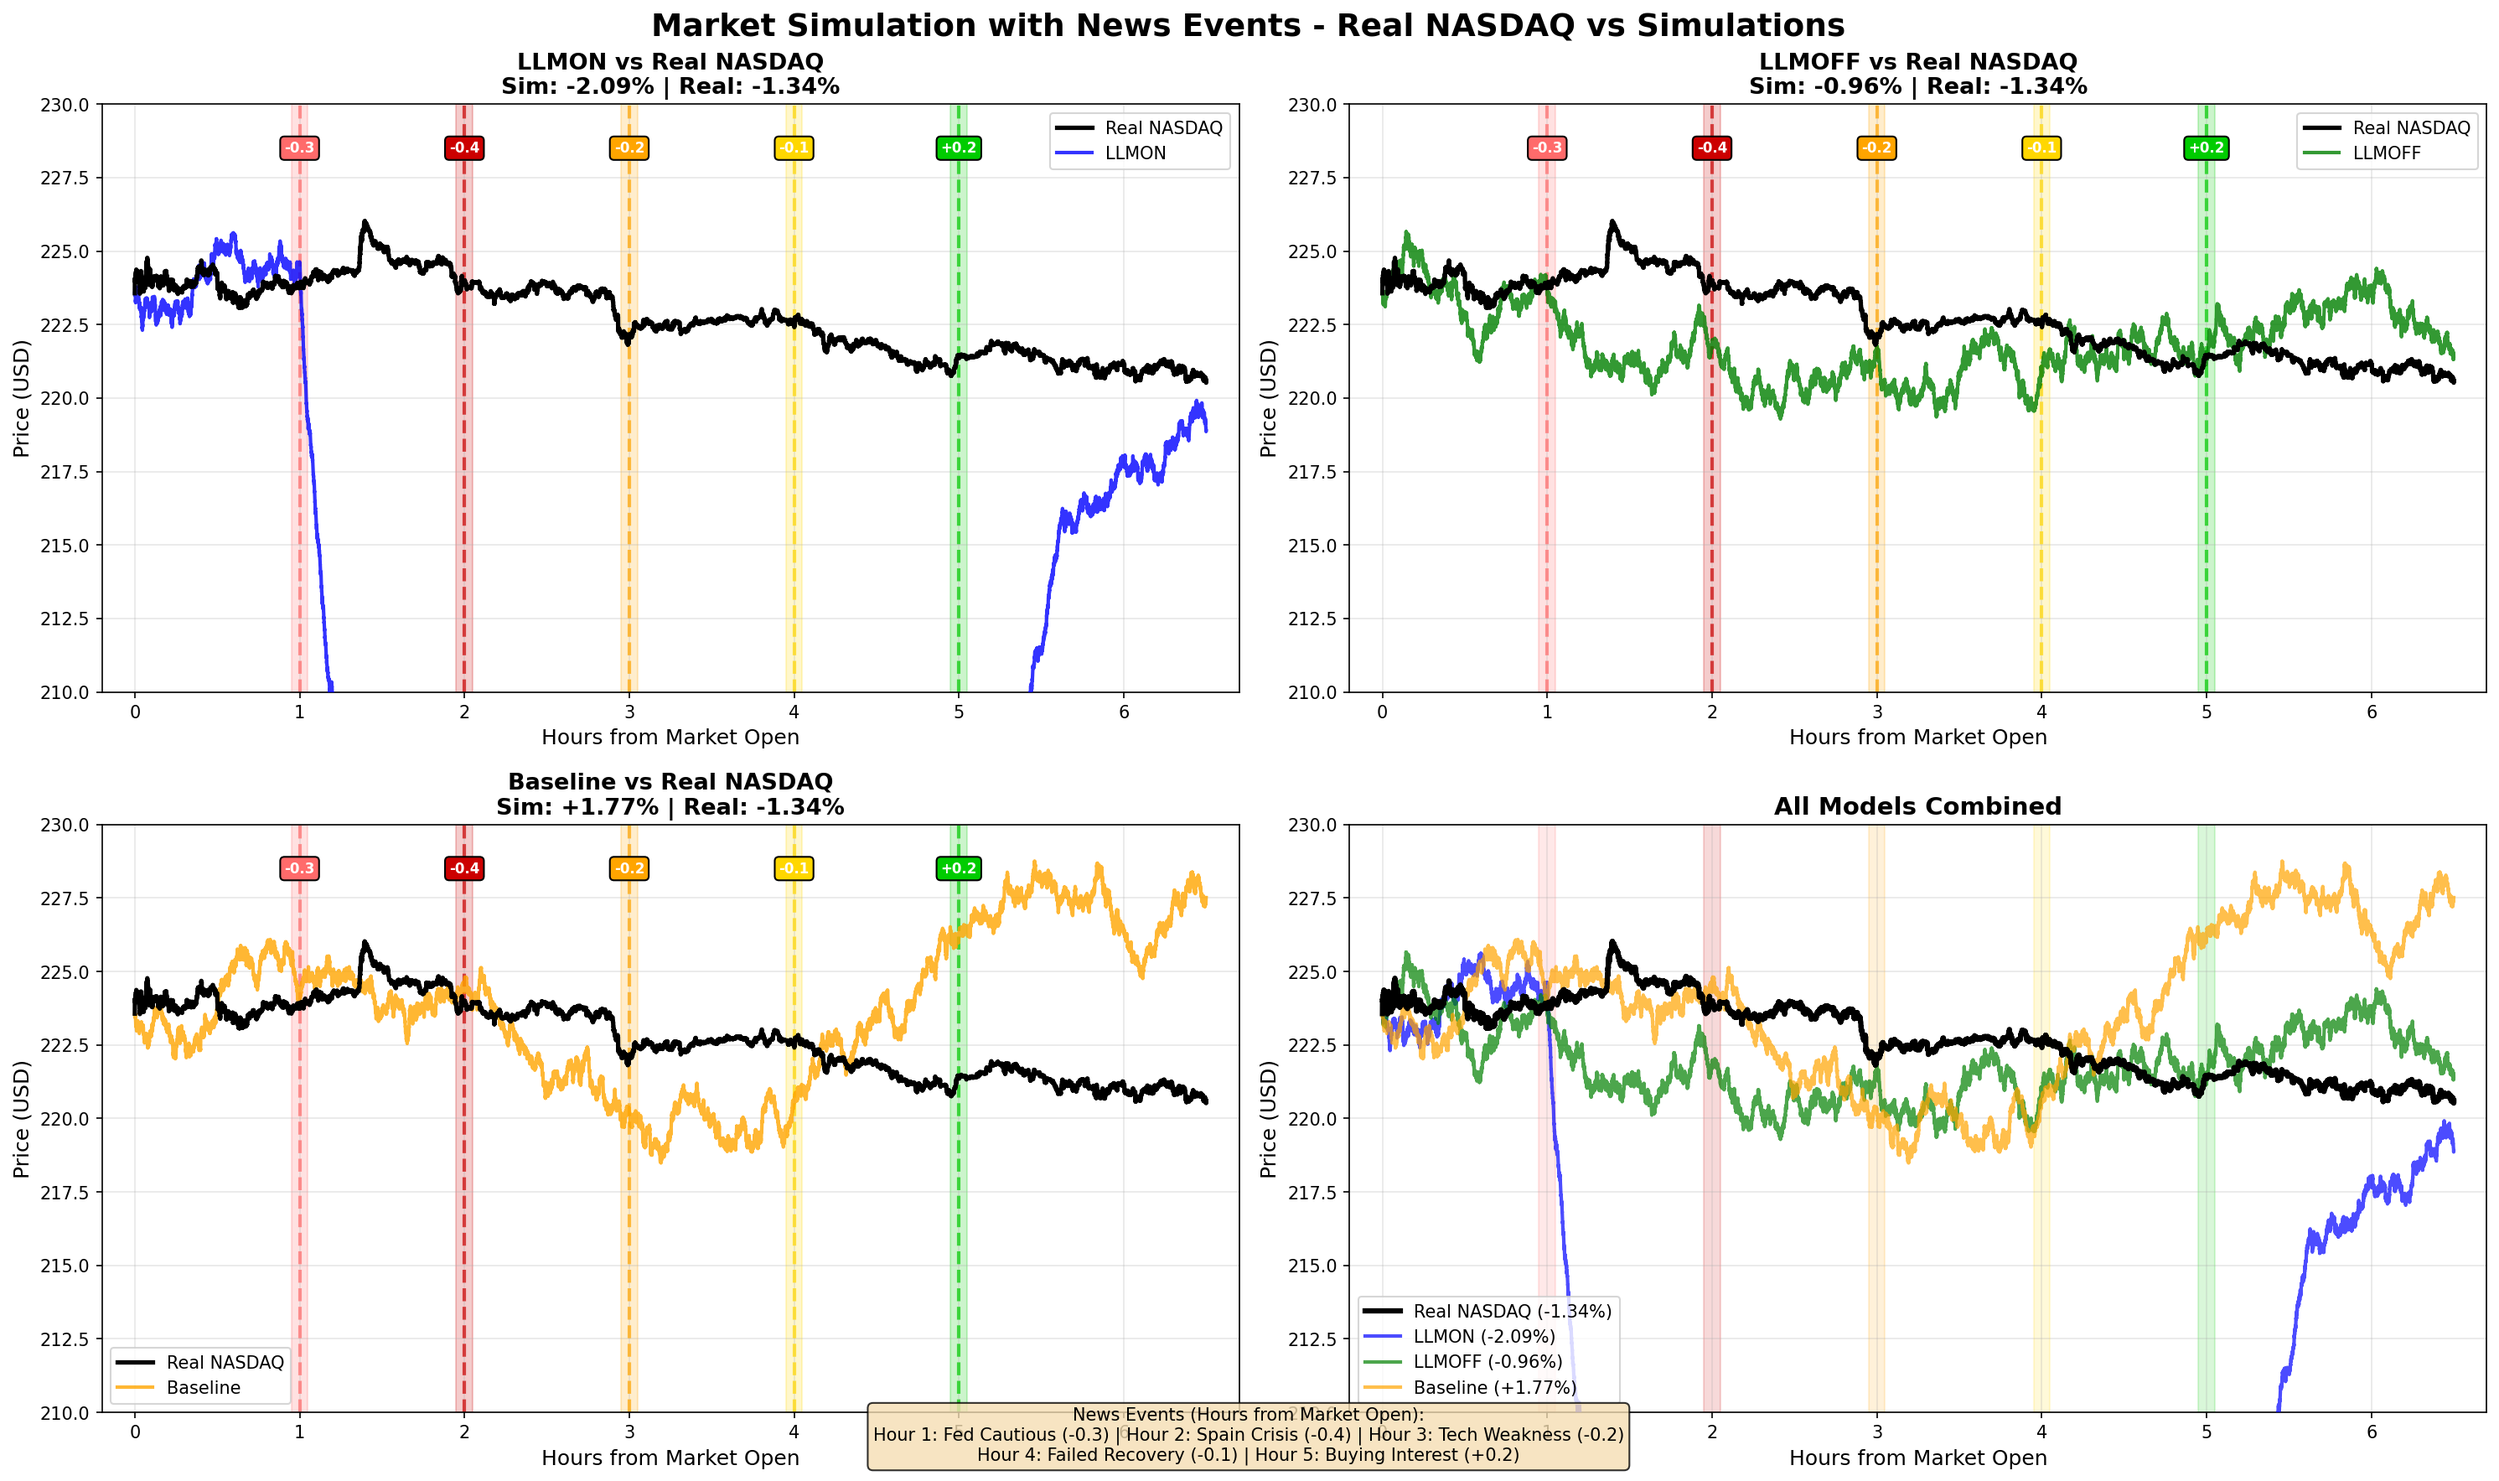
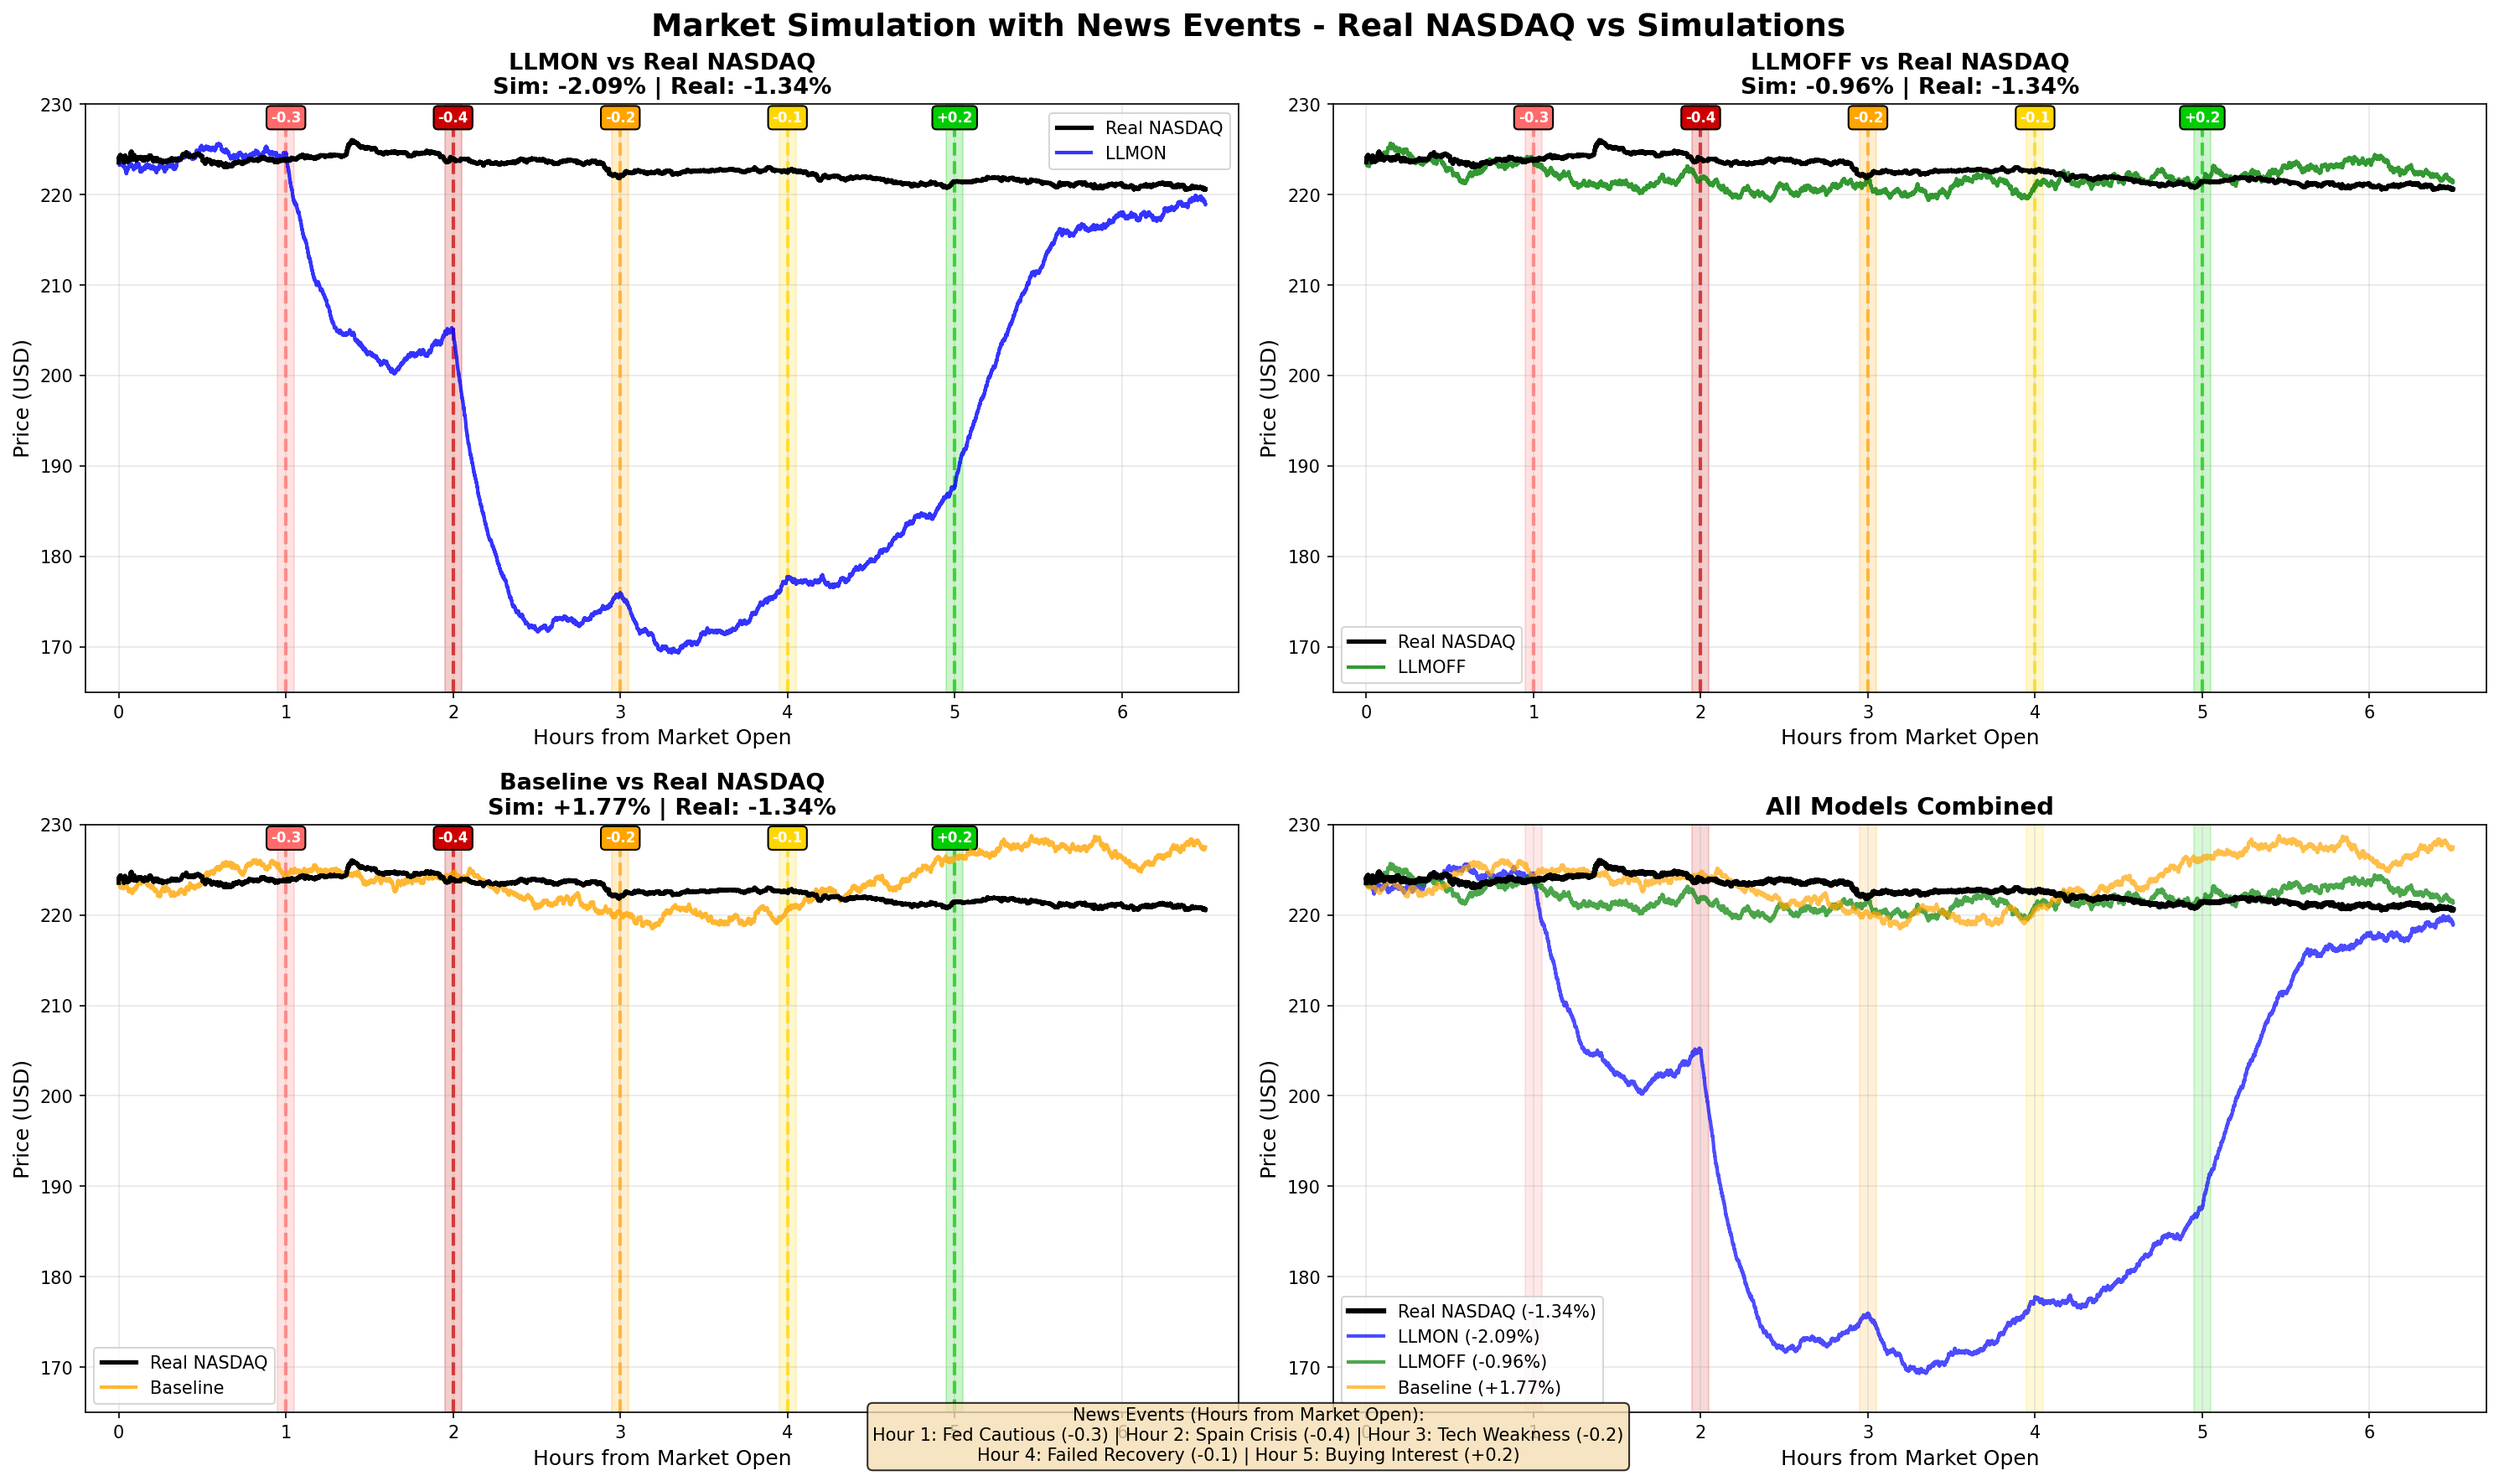
Fix: Extend y-axis to show full LLMON price range

diff --git a/create_plot_with_aligned_data.py b/create_plot_with_aligned_data.py
@@ -110,7 +110,7 @@ def create_aligned_plot():
         ax.set_xlabel('Hours from Market Open', fontsize=12)
         ax.set_ylabel('Price (USD)', fontsize=12)
         ax.set_xlim(-0.2, 6.7)
-        ax.set_ylim(210, 230)  # Adjusted for better visibility
+        ax.set_ylim(165, 230)  # Extended to show LLMON's full range (min: $169)
         ax.grid(True, alpha=0.3)
         ax.legend(loc='best', fontsize=10)
         
@@ -154,7 +154,7 @@ def create_aligned_plot():
     ax4.set_xlabel('Hours from Market Open', fontsize=12)
     ax4.set_ylabel('Price (USD)', fontsize=12)
     ax4.set_xlim(-0.2, 6.7)
-    ax4.set_ylim(210, 230)
+    ax4.set_ylim(165, 230)  # Extended to show full range
     ax4.grid(True, alpha=0.3)
     ax4.legend(loc='lower left', fontsize=10)
     

diff --git a/check_llmon_range.py b/check_llmon_range.py
@@ -1,0 +1,9 @@
+import sqlite3
+import pandas as pd
+
+db_path = '/workspace/lob_databases_calibrated_volume/AMZN_2012-06-21_LLMON_calibrated.db'
+conn = sqlite3.connect(db_path)
+df = pd.read_sql('SELECT MIN(mid_price) as min_p, MAX(mid_price) as max_p FROM orderbook', conn)
+conn.close()
+
+print(f'LLMON price range: ${df["min_p"].iloc[0]:.2f} - ${df["max_p"].iloc[0]:.2f}')
